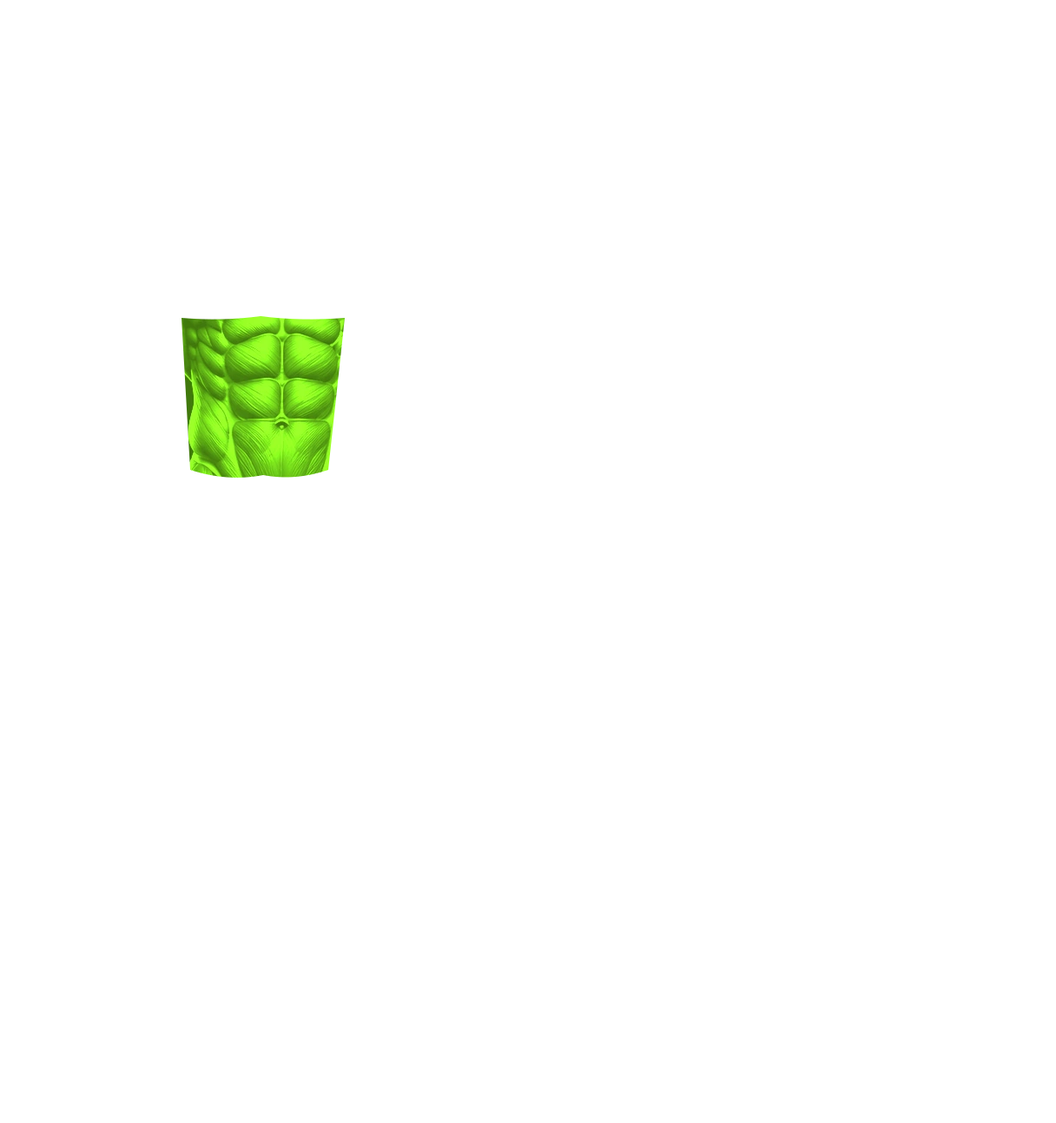
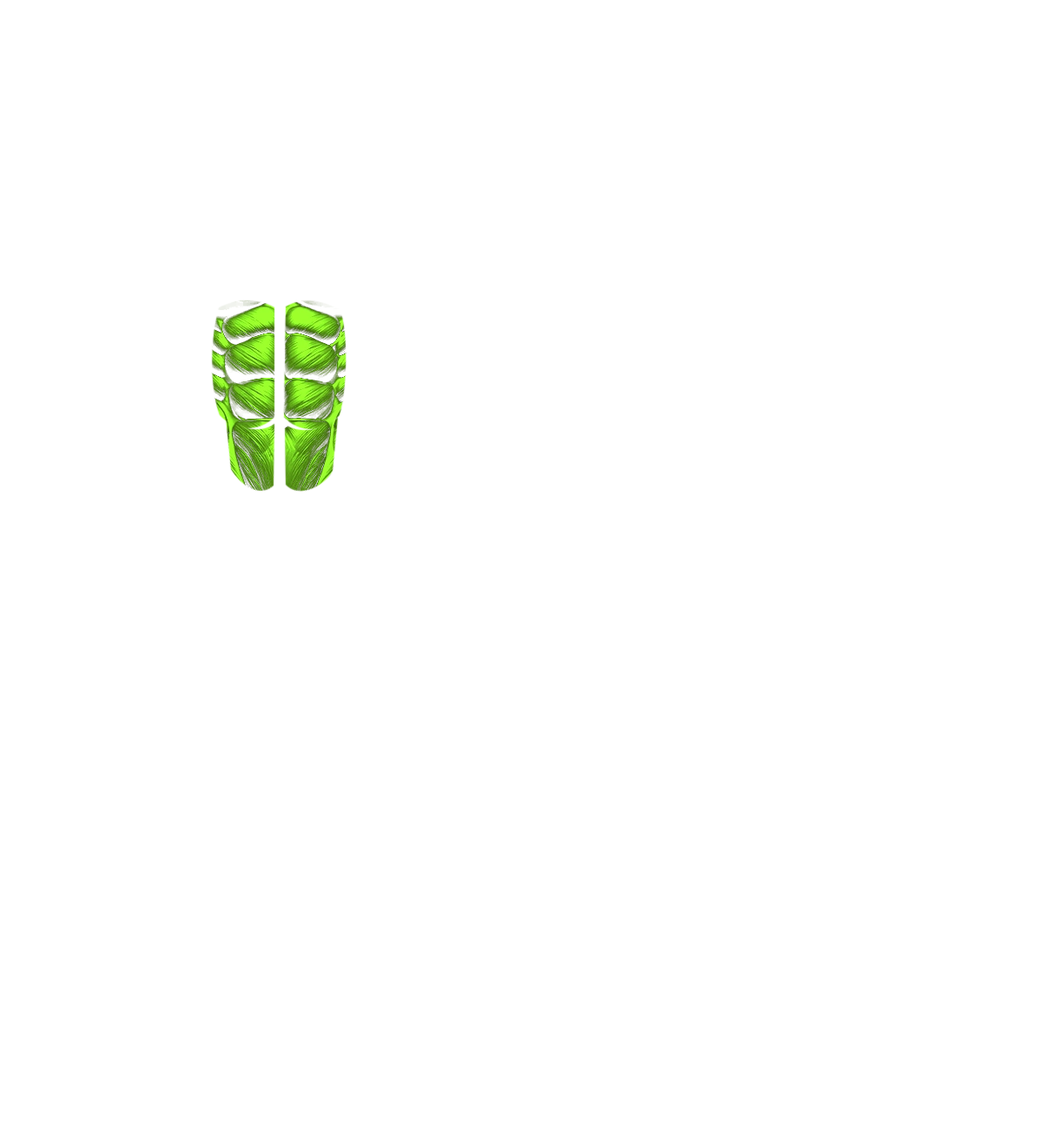
Add files via upload

Changed region(s): [[0.1562, 0.2475, 0.3438, 0.4331]]

diff --git a/js/performance.js b/js/performance.js
@@ -8,7 +8,7 @@ function coachLine(message){let style=state.settings.coachStyle;if(style==='quie
 function chooseEffort(v){if(!['easy','good','hard'].includes(v)||!state.draft)return;let e=state.draft.ex[index],lastSet=e.logged.at(-1);if(!lastSet)return;lastSet.effort=v;save();pulse();render()}
 function setCoachStyle(v){if(!['push','focus','quiet','savage'].includes(v))return;state.settings.coachStyle=v;save();render()}
 function setMotion(v){if(!['full','reduced'].includes(v))return;state.settings.motion=v;save();render()}
-function save(){state.updated=Date.now();try{localStorage.setItem(key,JSON.stringify(state))}catch(e){alert('Storage is full. Export a backup before continuing.');throw e}}function go(r){location.hash=r;if(route===r)render();if(r==='active')requestWakeLock();else releaseWakeLock()}function program(){return state.programs.find(p=>p.id===state.program)||state.programs[0]}function day(){return program().days[state.day]||program().days[0]}function valid(s){return s&&s.kg!==''&&s.kg!=null&&Number.isFinite(+s.kg)&&+s.kg>=0&&Number.isInteger(+s.reps)&&+s.reps>0}const volume=h=>(h.exercises||[]).reduce((a,e)=>a+(e.sets||[]).filter(valid).reduce((b,s)=>b+s.kg*s.reps,0),0);function history(name){return state.history.flatMap(h=>(h.exercises||[]).filter(e=>e.name===name).map(e=>({...e,date:h.date})))}function last(name){return history(name).at(-1)?.sets||[]}function week(){let d=new Date();d.setHours(0,0,0,0);d.setDate(d.getDate()-(d.getDay()+6)%7);return state.history.filter(h=>new Date(h.date)>=d)}function metric(n,v){return `<div class="panel"><small>${esc(n)}</small><strong class="metric">${esc(v)}</strong></div>`}function btn(t,fn,cls=''){return `<button class="${cls}" onclick="${fn}">${esc(t)}</button>`}function bar(n){return `<div class="bar"><i style="width:${Math.max(0,Math.min(100,n))}%"></i></div>`}const paths={home:'M3 10 12 3 21 10 V21 H15 V14 H9 V21 H3Z',train:'M3 8V16 M6 5V19 M18 5V19 M21 8V16 M6 12H18',progress:'M3 20V4 M3 20H22 M7 15L11 10 15 13 21 5',plan:'M4 5H20V21H4Z M4 10H20 M8 2V7 M16 2V7',fuel:'M7 3V12 M10 3V12 M7 8H10 M8.5 12V21 M17 3V21 M17 3C13 5 13 11 17 12',more:'M3 6H21 M3 12H21 M3 18H21'};const catalog=[["Bench Press", "Chest", "Barbell"], ["Incline Dumbbell Press", "Chest", "Dumbbells"], ["Cable Chest Fly", "Chest", "Cable"], ["Lat Pulldown", "Back", "Cable"], ["Seated Cable Row", "Back", "Cable"], ["Dumbbell Curl", "Arms", "Dumbbells"], ["Triceps Pushdown", "Arms", "Cable"], ["Shoulder Press", "Shoulders", "Dumbbells"], ["Leg Press", "Legs", "Machine"], ["Goblet Squat", "Legs", "Dumbbells"], ["Plank", "Core", "Bodyweight"], ["Walking Lunge", "Legs", "Bodyweight"], ["Hammer Curl", "Arms", "Dumbbells"], ["Lateral Raise", "Shoulders", "Dumbbells"], ["Chest Supported Row", "Back", "Dumbbells"], ["Overhead Triceps Extension", "Arms", "Dumbbells"], ["Reverse Pec Deck", "Shoulders", "Machine"], ["Cable Crunch", "Core", "Cable"], ["Seated Shoulder Press", "Shoulders", "Dumbbells"], ["Incline Chest Press", "Chest", "Machine"], ["Assisted Pull-up", "Back", "Machine"], ["Machine Chest Fly", "Chest", "Machine"], ["Cable Row", "Back", "Cable"], ["Straight Arm Pulldown", "Back", "Cable"], ["EZ Bar Curl", "Arms", "Barbell"], ["Rope Triceps Pushdown", "Arms", "Cable"], ["Incline Dumbbell Curl", "Arms", "Dumbbells"], ["Overhead Cable Extension", "Arms", "Cable"], ["Cable Lateral Raise", "Shoulders", "Cable"],["Dumbbell Bench Press", "Chest", "Dumbbells"],["Incline Barbell Press", "Chest", "Barbell"],["Decline Barbell Press", "Chest", "Barbell"],["Dumbbell Chest Fly", "Chest", "Dumbbells"],["Pec Deck Chest Fly", "Chest", "Machine"],["Weighted Dip", "Chest", "Bodyweight"],["Close Grip Bench Press", "Arms", "Barbell"],["Push-up", "Chest", "Bodyweight"],["Pull-up", "Back", "Bodyweight"],["Chin-up", "Back", "Bodyweight"],["Bent Over Barbell Row", "Back", "Barbell"],["One Arm Dumbbell Row", "Back", "Dumbbells"],["T Bar Row", "Back", "Barbell"],["Chest Supported Machine Row", "Back", "Machine"],["Wide Grip Lat Pulldown", "Back", "Cable"],["Close Grip Cable Row", "Back", "Cable"]];const muscle=n=>catalog.find(x=>x[0]===n)?.[1]||(/curl|triceps|extension/i.test(n)?'Arms':/row|pull/i.test(n)?'Back':/press|fly/i.test(n)&&!/shoulder|leg/i.test(n)?'Chest':/shoulder|raise|pec deck/i.test(n)?'Shoulders':/crunch|plank/i.test(n)?'Core':'Other');function img(n){let f=n.trim().toLowerCase().replace(/[^a-z0-9]+/g,'-');return catalog.some(x=>x[0].toLowerCase()===n.trim().toLowerCase())?`<img class="exercise-img" loading="lazy" src="exercise-images/${f}.webp" alt="3D-style exercise demonstration: ${esc(n)}" onerror="this.onerror=null;this.replaceWith(Object.assign(document.createElement('div'),{className:'exercise-image-error',textContent:'Illustration temporarily unavailable · ${esc(n)}'}))">`:'<div class="exercise-image-error">Custom exercise · illustration not yet available</div>'}function render(){route=location.hash.slice(1)||'home';if(route!=='active')releaseWakeLock();document.documentElement.dataset.motion=state.settings.motion;$('network').textContent=navigator.onLine?'● Online':'● Offline';$('nav').innerHTML=Object.entries(paths).map(([r,p])=>`<button type="button" aria-label="${r[0].toUpperCase()+r.slice(1)}" aria-current="${(route===r||r==='train'&&route==='active'||r==='plan'&&route==='calendar')?'page':'false'}" class="${(route===r||r==='train'&&route==='active'||r==='plan'&&route==='calendar')?'active':''}" onclick="go('${r}')"><span class="nav-glyph"><svg viewBox="0 0 24 24" aria-hidden="true"><path d="${p}"/></svg></span><span class="nav-name">${r[0].toUpperCase()+r.slice(1)}</span></button>`).join('');let views={home,train,active,progress,calendar,plan:calendar,fuel,more,library,settings,builder,body,summary,generator};$('screen').innerHTML=(views[route]||home)();tick();updateWakeStatus()}function home(){let w=week(),n=w.length,g=state.settings.goal,total=state.history.length,vol=Math.round(w.reduce((a,h)=>a+volume(h),0));return `<div class="v5-command"><div class="preview-banner">V6.7 TITANIUM X · 3D MUSCLE MAP</div><div class="v5-eyebrow">V6 TITANIUM X / COMMAND MODE <span class="v5-live">● SYSTEM READY</span></div><div class="v5-hero"><div class="v5-hero-content"><small>YOUR PERSONAL TRAINING SYSTEM</small><h1>${esc(state.draft?'WELCOME BACK':'READY TO EVOLVE?')}</h1><p>${esc(state.draft?.name||day().name)}</p><div class="v5-hero-action">${btn(state.draft?'▶ RESUME TRAINING':'⚡ START TRAINING','start()','primary')}</div></div></div><div class="v5-instruments"><div class="v5-dial" style="--percent:${Math.min(100,Math.round(n/Math.max(1,g)*100))}%"><strong>${n}/${g}</strong><small>WEEKLY GOAL</small></div><div class="v5-dial" style="--percent:${Math.min(100,total*10)}%"><strong>${total}</strong><small>SESSIONS</small></div><div class="v5-dial" style="--percent:${Math.min(100,vol/100)}%"><strong>${vol>=1000?(vol/1000).toFixed(1)+'t':vol+'kg'}</strong><small>WEEKLY VOLUME</small></div></div><section class="v5-coach"><div class="v5-coach-head"><span class="v5-wolf">◈</span><div><small>YOUR TRAINER</small><h2>KILLA COACH</h2></div><span class="v5-live">${esc(state.settings.coachStyle.toUpperCase())}</span></div><p>${esc(total?`Last session: ${state.history.at(-1).name}. ${n} of ${g} weekly sessions completed. Ready for the next step?`:'Your first session starts here. Train with control, log your sets and build a real performance history.')}</p><div class="v5-actions">${btn('TRAINING PROGRAM',"go('train')")}${btn('PROGRESS HQ',"go('progress')")}</div></section><div class="v5-mode-row"><button onclick="go('builder')"><b>⚙ FORGE</b><small>BUILD YOUR PROGRAM</small></button><button onclick="go('calendar')"><b>▦ SHIFT</b><small>SITE & HOME</small></button><button onclick="go('library')"><b>◉ LIBRARY</b><small>3D EXERCISES</small></button></div></div>`}
+function save(){state.updated=Date.now();try{localStorage.setItem(key,JSON.stringify(state))}catch(e){alert('Storage is full. Export a backup before continuing.');throw e}}function go(r){location.hash=r;if(route===r)render();if(r==='active')requestWakeLock();else releaseWakeLock()}function program(){return state.programs.find(p=>p.id===state.program)||state.programs[0]}function day(){return program().days[state.day]||program().days[0]}function valid(s){return s&&s.kg!==''&&s.kg!=null&&Number.isFinite(+s.kg)&&+s.kg>=0&&Number.isInteger(+s.reps)&&+s.reps>0}const volume=h=>(h.exercises||[]).reduce((a,e)=>a+(e.sets||[]).filter(valid).reduce((b,s)=>b+s.kg*s.reps,0),0);function history(name){return state.history.flatMap(h=>(h.exercises||[]).filter(e=>e.name===name).map(e=>({...e,date:h.date})))}function last(name){return history(name).at(-1)?.sets||[]}function week(){let d=new Date();d.setHours(0,0,0,0);d.setDate(d.getDate()-(d.getDay()+6)%7);return state.history.filter(h=>new Date(h.date)>=d)}function metric(n,v){return `<div class="panel"><small>${esc(n)}</small><strong class="metric">${esc(v)}</strong></div>`}function btn(t,fn,cls=''){return `<button class="${cls}" onclick="${fn}">${esc(t)}</button>`}function bar(n){return `<div class="bar"><i style="width:${Math.max(0,Math.min(100,n))}%"></i></div>`}const paths={home:'M3 10 12 3 21 10 V21 H15 V14 H9 V21 H3Z',train:'M3 8V16 M6 5V19 M18 5V19 M21 8V16 M6 12H18',progress:'M3 20V4 M3 20H22 M7 15L11 10 15 13 21 5',plan:'M4 5H20V21H4Z M4 10H20 M8 2V7 M16 2V7',fuel:'M7 3V12 M10 3V12 M7 8H10 M8.5 12V21 M17 3V21 M17 3C13 5 13 11 17 12',more:'M3 6H21 M3 12H21 M3 18H21'};const catalog=[["Bench Press", "Chest", "Barbell"], ["Incline Dumbbell Press", "Chest", "Dumbbells"], ["Cable Chest Fly", "Chest", "Cable"], ["Lat Pulldown", "Back", "Cable"], ["Seated Cable Row", "Back", "Cable"], ["Dumbbell Curl", "Arms", "Dumbbells"], ["Triceps Pushdown", "Arms", "Cable"], ["Shoulder Press", "Shoulders", "Dumbbells"], ["Leg Press", "Legs", "Machine"], ["Goblet Squat", "Legs", "Dumbbells"], ["Plank", "Core", "Bodyweight"], ["Walking Lunge", "Legs", "Bodyweight"], ["Hammer Curl", "Arms", "Dumbbells"], ["Lateral Raise", "Shoulders", "Dumbbells"], ["Chest Supported Row", "Back", "Dumbbells"], ["Overhead Triceps Extension", "Arms", "Dumbbells"], ["Reverse Pec Deck", "Shoulders", "Machine"], ["Cable Crunch", "Core", "Cable"], ["Seated Shoulder Press", "Shoulders", "Dumbbells"], ["Incline Chest Press", "Chest", "Machine"], ["Assisted Pull-up", "Back", "Machine"], ["Machine Chest Fly", "Chest", "Machine"], ["Cable Row", "Back", "Cable"], ["Straight Arm Pulldown", "Back", "Cable"], ["EZ Bar Curl", "Arms", "Barbell"], ["Rope Triceps Pushdown", "Arms", "Cable"], ["Incline Dumbbell Curl", "Arms", "Dumbbells"], ["Overhead Cable Extension", "Arms", "Cable"], ["Cable Lateral Raise", "Shoulders", "Cable"],["Dumbbell Bench Press", "Chest", "Dumbbells"],["Incline Barbell Press", "Chest", "Barbell"],["Decline Barbell Press", "Chest", "Barbell"],["Dumbbell Chest Fly", "Chest", "Dumbbells"],["Pec Deck Chest Fly", "Chest", "Machine"],["Weighted Dip", "Chest", "Bodyweight"],["Close Grip Bench Press", "Arms", "Barbell"],["Push-up", "Chest", "Bodyweight"],["Pull-up", "Back", "Bodyweight"],["Chin-up", "Back", "Bodyweight"],["Bent Over Barbell Row", "Back", "Barbell"],["One Arm Dumbbell Row", "Back", "Dumbbells"],["T Bar Row", "Back", "Barbell"],["Chest Supported Machine Row", "Back", "Machine"],["Wide Grip Lat Pulldown", "Back", "Cable"],["Close Grip Cable Row", "Back", "Cable"]];const muscle=n=>catalog.find(x=>x[0]===n)?.[1]||(/curl|triceps|extension/i.test(n)?'Arms':/row|pull/i.test(n)?'Back':/press|fly/i.test(n)&&!/shoulder|leg/i.test(n)?'Chest':/shoulder|raise|pec deck/i.test(n)?'Shoulders':/crunch|plank/i.test(n)?'Core':'Other');function img(n){let f=n.trim().toLowerCase().replace(/[^a-z0-9]+/g,'-');return catalog.some(x=>x[0].toLowerCase()===n.trim().toLowerCase())?`<img class="exercise-img" loading="lazy" src="exercise-images/${f}.webp" alt="3D-style exercise demonstration: ${esc(n)}" onerror="this.onerror=null;this.replaceWith(Object.assign(document.createElement('div'),{className:'exercise-image-error',textContent:'Illustration temporarily unavailable · ${esc(n)}'}))">`:'<div class="exercise-image-error">Custom exercise · illustration not yet available</div>'}function render(){route=location.hash.slice(1)||'home';if(route!=='active')releaseWakeLock();document.documentElement.dataset.motion=state.settings.motion;$('network').textContent=navigator.onLine?'● Online':'● Offline';$('nav').innerHTML=Object.entries(paths).map(([r,p])=>`<button type="button" aria-label="${r[0].toUpperCase()+r.slice(1)}" aria-current="${(route===r||r==='train'&&route==='active'||r==='plan'&&route==='calendar')?'page':'false'}" class="${(route===r||r==='train'&&route==='active'||r==='plan'&&route==='calendar')?'active':''}" onclick="go('${r}')"><span class="nav-glyph"><svg viewBox="0 0 24 24" aria-hidden="true"><path d="${p}"/></svg></span><span class="nav-name">${r[0].toUpperCase()+r.slice(1)}</span></button>`).join('');let views={home,train,active,progress,calendar,plan:calendar,fuel,more,library,settings,builder,body,summary,generator};$('screen').innerHTML=(views[route]||home)();tick();updateWakeStatus()}function home(){let w=week(),n=w.length,g=state.settings.goal,total=state.history.length,vol=Math.round(w.reduce((a,h)=>a+volume(h),0));return `<div class="v5-command"><div class="preview-banner">V6.8 TITANIUM X · 3D MUSCLE MAP</div><div class="v5-eyebrow">V6 TITANIUM X / COMMAND MODE <span class="v5-live">● SYSTEM READY</span></div><div class="v5-hero"><div class="v5-hero-content"><small>YOUR PERSONAL TRAINING SYSTEM</small><h1>${esc(state.draft?'WELCOME BACK':'READY TO EVOLVE?')}</h1><p>${esc(state.draft?.name||day().name)}</p><div class="v5-hero-action">${btn(state.draft?'▶ RESUME TRAINING':'⚡ START TRAINING','start()','primary')}</div></div></div><div class="v5-instruments"><div class="v5-dial" style="--percent:${Math.min(100,Math.round(n/Math.max(1,g)*100))}%"><strong>${n}/${g}</strong><small>WEEKLY GOAL</small></div><div class="v5-dial" style="--percent:${Math.min(100,total*10)}%"><strong>${total}</strong><small>SESSIONS</small></div><div class="v5-dial" style="--percent:${Math.min(100,vol/100)}%"><strong>${vol>=1000?(vol/1000).toFixed(1)+'t':vol+'kg'}</strong><small>WEEKLY VOLUME</small></div></div><section class="v5-coach"><div class="v5-coach-head"><span class="v5-wolf">◈</span><div><small>YOUR TRAINER</small><h2>KILLA COACH</h2></div><span class="v5-live">${esc(state.settings.coachStyle.toUpperCase())}</span></div><p>${esc(total?`Last session: ${state.history.at(-1).name}. ${n} of ${g} weekly sessions completed. Ready for the next step?`:'Your first session starts here. Train with control, log your sets and build a real performance history.')}</p><div class="v5-actions">${btn('TRAINING PROGRAM',"go('train')")}${btn('PROGRESS HQ',"go('progress')")}</div></section><div class="v5-mode-row"><button onclick="go('builder')"><b>⚙ FORGE</b><small>BUILD YOUR PROGRAM</small></button><button onclick="go('calendar')"><b>▦ SHIFT</b><small>SITE & HOME</small></button><button onclick="go('library')"><b>◉ LIBRARY</b><small>3D EXERCISES</small></button></div></div>`}
 function train(){return `<h1>Train</h1>${state.draft?btn('Resume active workout','start()','primary'):''}<section><label>Training program<select onchange="selectProgram(this.value)">${state.programs.map(p=>`<option value="${esc(p.id)}" ${p.id===state.program?'selected':''}>${esc(p.name)}</option>`).join('')}</select></label>${program().days.map((d,i)=>`<div class="panel"><h2>${esc(d.name)}</h2><small>${d.ex.length} exercises</small><div class="row">${btn('Select',`selectDay(${i})`)}${state.day===i?btn('Start','start()','primary'):''}</div></div>`).join('')}${btn('Manage programs',"go('builder')")}${btn('Workout generator',"go('generator')")}</section><section><h2>Selected workout</h2>${day().ex.map(e=>`<p>${esc(e.name)} · ${e.sets} × ${esc(e.reps)}</p>`).join('')}</section>`}function selectProgram(id){state.program=id;state.day=0;save();render()}function selectDay(i){state.day=i;save();render()}function start(){unlock();requestWakeLock();if(!state.draft){const d=day();if(!d.ex.length)return alert('Add exercises first');let legacy=state.program==='original'?state.legacyDraft[state.day]:null;state.draft={id:uid(),name:d.name,program:state.program,day:state.day,started:Date.now(),ex:d.ex.map((e,i)=>({...clone(e),logged:Object.values(legacy?.[i]?.sets||{}).filter(valid)}))};if(state.program==='original')delete state.legacyDraft[state.day];index=0;save()}go('active')}/* V6.4 Smart Load and Coach. Old kg records are always treated as recorded total; no migration rewrite. */
 const LOAD_TYPES={barbell:'Barbell · plates per side',dumbbell:'Dumbbells · each hand',stack:'Cable / pin stack · displayed weight',dual:'Dual cable · each stack',plate:'Plate-loaded machine · each side',total:'Total external load',bodyweight:'Bodyweight / added load'};
 function loadType(name){let x=catalog.find(a=>a[0]===name),equip=x?.[2]||'';if(/EZ Bar|Bench Press$/.test(name)&&equip==='Barbell')return 'barbell';if(equip==='Barbell')return 'barbell';if(equip==='Dumbbells')return 'dumbbell';if(equip==='Cable')return /Cable Chest Fly/i.test(name)?'dual':'stack';if(equip==='Machine')return /Leg Press|Incline Chest Press/i.test(name)?'plate':'stack';if(equip==='Bodyweight')return 'bodyweight';return 'total'}
@@ -70,11 +70,11 @@ function anatomyMap(counts,detail={}){
 const max=Math.max(1,...Object.values(counts));
 const layers=[['Chest',counts.Chest||0],['Back',counts.Back||0],['Shoulders',counts.Shoulders||0],['Biceps',detail.Biceps||0],['Triceps',detail.Triceps||0],['Core',counts.Core||0],['Legs',counts.Legs||0]];
 const overlays=layers.filter(([name,sets])=>sets>0).map(([name,sets])=>{
-  const relative=Math.max(.82,Math.min(1,sets/max));
+  const relative=1; // Fully coloured trained muscles.
   return `<img class="anatomy-colour-layer" src="assets/muscle-${name.toLowerCase()}.webp" alt="" aria-hidden="true" style="opacity:${relative.toFixed(2)}">`;
 }).join('');
 const cards=['Chest','Back','Shoulders','Arms','Legs','Core'].map(m=>`<button class="anatomy-muscle ${group===m?'selected':''}" onclick="group='${m}';render()"><span class="muscle-dot ${counts[m]?'trained':''}"></span><span>${m}</span><strong>${counts[m]||0} sets</strong><i style="--level:${Math.round((counts[m]||0)/max*100)}%"></i></button>`).join('');
-return `<div class="anatomy-layout"><div class="anatomy-visual"><img class="anatomy-base" src="assets/anatomy-front-back.webp" alt="Silver front and back anatomy with vivid green muscle regions reflecting recorded sets" loading="lazy">${overlays}<div class="anatomy-map-hotspots" aria-label="Muscle map navigation"><button onclick="group='Chest';render()" aria-label="Chest, ${counts.Chest||0} sets" style="left:17%;top:22%;width:16%;height:12%"></button><button onclick="group='Arms';render()" aria-label="Arms, ${counts.Arms||0} sets" style="left:10%;top:25%;width:31%;height:15%"></button><button onclick="group='Back';render()" aria-label="Back, ${counts.Back||0} sets" style="left:68%;top:22%;width:17%;height:19%"></button><button onclick="group='Legs';render()" aria-label="Legs, ${counts.Legs||0} sets" style="left:19%;top:45%;width:65%;height:28%"></button></div><div class="anatomy-view-labels"><span>FRONT</span><span>BACK</span></div></div><div class="anatomy-muscles">${cards}</div></div><p class="anatomy-note">Green muscle tissue = recorded working sets in this period. Silver = no directly logged sets. Colour reflects training records, not muscle growth or recovery.${counts.Arms?` Arms: ${detail.Biceps||0} biceps sets · ${detail.Triceps||0} triceps sets.`:''}</p>`;
+return `<div class="anatomy-layout"><div class="anatomy-visual"><img class="anatomy-base" src="assets/anatomy-front-back.webp" alt="Silver front and back anatomy with vivid green muscle regions reflecting recorded sets" loading="lazy">${overlays}<div class="anatomy-map-hotspots" aria-label="Muscle map navigation"><button onclick="group='Chest';render()" aria-label="Chest, ${counts.Chest||0} sets" style="left:17%;top:22%;width:16%;height:12%"></button><button onclick="group='Arms';render()" aria-label="Arms, ${counts.Arms||0} sets" style="left:10%;top:25%;width:31%;height:15%"></button><button onclick="group='Back';render()" aria-label="Back, ${counts.Back||0} sets" style="left:68%;top:22%;width:17%;height:19%"></button><button onclick="group='Legs';render()" aria-label="Legs, ${counts.Legs||0} sets" style="left:19%;top:45%;width:65%;height:28%"></button></div><div class="anatomy-view-labels"><span>FRONT</span><span>BACK</span></div></div><div class="anatomy-muscles">${cards}</div></div><p class="anatomy-note">Vivid green muscle tissue = directly trained muscles in this period. Silver = no directly logged sets. Colour reflects training records, not muscle growth or recovery.${counts.Arms?` Arms: ${detail.Biceps||0} biceps sets · ${detail.Triceps||0} triceps sets.`:''}</p>`;
 }
 function progress(){let h=state.history.filter(x=>!period||Date.now()-new Date(x.date).getTime()<=period*86400000),counts={},detail={Biceps:0,Triceps:0};h.forEach(x=>(x.exercises||[]).forEach(e=>{let m=muscle(e.name),n=(e.sets||[]).filter(valid).length;counts[m]=(counts[m]||0)+n;if(m==='Arms'){if(/curl|chin.up/i.test(e.name))detail.Biceps+=n;else if(/triceps|extension|pushdown|close.grip/i.test(e.name))detail.Triceps+=n;else {detail.Biceps+=n;detail.Triceps+=n}}}));let names=[...new Set(state.history.flatMap(h=>(h.exercises||[]).map(e=>e.name)))],maxVol=Math.max(1,...h.map(volume));
 return `<div class="v6-progress"><div class="v6-progress-heading"><small>V6 TITANIUM X / PERFORMANCE HQ</small><h1>PROGRESS</h1><p>YOUR TRAINING PERFORMANCE</p></div><section><div class="v6-period">${[7,30,90,0].map(n=>btn(n?n+' days':'All time',`period=${n};render()`,period===n?'primary':'')).join('')}</div><div class="grid">${metric('Sessions',h.length)}${metric('Training volume',Math.round(h.reduce((a,x)=>a+volume(x),0)).toLocaleString()+' kg')}</div><h2>Session volume</h2>${h.length?`<div class="v6-chart" role="img" aria-label="Recorded session volumes: ${h.map(x=>Math.round(volume(x))+' kilograms').join(', ')}">${h.slice(-30).map(x=>`<div class="v6-chart-column" title="${esc(x.date.slice(0,10))}: ${Math.round(volume(x))} kg"><span>${Math.round(volume(x)).toLocaleString()}</span><i style="height:${Math.max(4,100*volume(x)/maxVol)}%"></i><small>${esc(x.date.slice(5,10))}</small></div>`).join('')}</div>`:'<p class="muted">Your session volume chart will appear after you complete a workout.</p>'}</section><section class="v6-anatomy-section"><h2>MUSCLE TRAINING MAP</h2><p class="muted">Your recorded muscle-group workload, visualised on a realistic anatomical reference.</p>${anatomyMap(counts,detail)}${group?`<div class="v6-muscle-detail"><h3>${esc(group)} · ${counts[group]||0} logged sets</h3>${catalog.filter(x=>x[1]===group).map(x=>`<p>${esc(x[0])}</p>`).join('')||'<p>No catalogue exercises for this group.</p>'}</div>`:''}</section><section><h2>Exercise history</h2><select id="historyName" onchange="showHistory(this.value)"><option value="">Select exercise</option>${names.map(n=>`<option>${esc(n)}</option>`).join('')}</select><div id="exerciseHistory"></div></section><section><h2>Sessions</h2>${h.slice().reverse().map(x=>`<p>${esc(x.name)} · ${esc(x.date.slice(0,10))} · ${volume(x)} kg</p>`).join('')||'<p class="muted">No sessions in this period.</p>'}</section></div>`}

diff --git a/css/performance.css b/css/performance.css
@@ -150,9 +150,12 @@
 /* V6.6 Titanium X CGI Exercise Vault */
 .vault-page{max-width:950px;margin:auto;padding-bottom:28px}.vault-heading{padding:18px 3px 12px}.vault-heading small,.vault-detail-top small{color:#b6f432;letter-spacing:.14em;font-size:11px;font-weight:900}.vault-heading h1{font-size:clamp(25px,6vw,38px);font-style:italic;letter-spacing:.035em;margin:7px 0;color:#f0f4f1}.vault-heading p,.vault-detail-top p{color:#a9b7ac;margin:5px 0 12px}.vault-search{display:block;margin:0 0 12px;color:#b9c8bd;font-size:12px}.vault-search input{margin-top:6px;width:100%;border-radius:13px;background:#121a17;border:1px solid #455848;color:#fff;padding:13px}.vault-filters{display:flex;gap:8px;overflow-x:auto;padding:5px 0 15px;scrollbar-width:thin}.vault-filters button{flex:0 0 auto;padding:10px 13px;border:1px solid #536357;border-radius:10px;background:linear-gradient(#1a241f,#0b100e);color:#e7f0e8;font-size:12px;font-weight:800}.vault-filters button.selected{background:linear-gradient(#c8ff47,#79c300);color:#10170b;border-color:#b6f432;box-shadow:0 0 15px #9ce82170}.vault-grid{display:grid;grid-template-columns:repeat(2,minmax(0,1fr));gap:12px}.vault-tile{display:flex;flex-direction:column;text-align:left;padding:0 0 12px;border:1px solid #526451;border-radius:14px;overflow:hidden;background:linear-gradient(145deg,#202b23,#0b100e);color:#fff;min-width:0}.vault-tile .exercise-img{width:100%;aspect-ratio:1/1;object-fit:cover;display:block;border-radius:0;max-height:none;margin:0 0 10px}.vault-tile-title{font-weight:900;line-height:1.2;padding:0 10px;font-size:13px;min-height:31px}.vault-tile small{color:#afc1b1;padding:4px 10px}.vault-tile-link{color:#b6f432;font-size:10px;font-weight:900;padding:7px 10px 0;letter-spacing:.05em}.vault-tile:focus-visible,.vault-tile:hover{border-color:#b6f432;box-shadow:0 0 14px #a5ef3850}.vault-detail{max-width:610px;margin:auto}.vault-detail-top{display:flex;align-items:flex-start;justify-content:space-between;gap:8px}.vault-detail-top h2{margin:8px 0;font-size:clamp(20px,5vw,28px);color:#f6f9f7}.vault-detail-top>button{width:38px;height:38px;flex:0 0 38px;border-radius:50%;background:#18221a;color:white;border:1px solid #576954}.vault-tabs{display:grid;grid-template-columns:1fr 1fr;gap:5px;background:#0c110e;border:1px solid #52664e;border-radius:11px;padding:4px;margin:12px 0}.vault-tabs button{border:0;border-radius:8px;background:transparent;color:#d4e2d6;padding:12px 4px;font-weight:850;font-size:12px}.vault-tabs button.active{color:#10160b;background:linear-gradient(120deg,#d4ff65,#7dcb03);box-shadow:0 0 15px #b6f43266}.vault-detail-image{background:#050806;border:1px solid #314232;border-radius:14px;overflow:hidden}.vault-detail-image .exercise-img{display:block;width:100%;max-height:420px;object-fit:contain;margin:auto}.vault-description{font-size:12px;color:#b6c7b9;line-height:1.6}.vault-use{width:100%;margin:12px 0 2px;min-height:52px}.vault-muscle-focus{display:grid;grid-template-columns:minmax(0,1.25fr) minmax(0,1fr);gap:12px;align-items:center}.vault-muscle-figure{border:1px solid #3d523e;background:#080d0a;border-radius:12px;overflow:hidden}.vault-muscle-figure img{display:block;width:100%;height:auto}.vault-muscle-key{display:grid;gap:12px}.vault-muscle-key>div{display:grid;grid-template-columns:14px 1fr;column-gap:8px;align-items:center;color:#eaf3eb}.vault-muscle-key i{width:12px;height:12px;border-radius:4px;grid-row:span 2}.vault-muscle-key i.primary{background:#b6f432;box-shadow:0 0 8px #b6f432}.vault-muscle-key i.secondary{background:#527b38}.vault-muscle-key strong{font-size:11px}.vault-muscle-key span{font-size:12px;color:#a9bbac}.vault-quick-action{margin:8px 0}.vault-quick-action button{border:1px solid #6a913d;color:#b6f432;background:#111a12;border-radius:10px;padding:9px 12px;font-size:11px;font-weight:900}@media(min-width:650px){.vault-grid{grid-template-columns:repeat(3,minmax(0,1fr))}}@media(max-width:380px){.vault-muscle-focus{grid-template-columns:1fr}.vault-muscle-figure img{max-height:260px;object-fit:contain}}
 
-/* V6.7 — tissue-coloured muscle overlays preserve the underlying anatomical shadows */
+/* V6.8 — tissue-coloured muscle overlays preserve the underlying anatomical shadows */
 .anatomy-visual>.anatomy-base{display:block;width:100%;height:auto}
 .anatomy-visual>.anatomy-colour-layer{position:absolute;inset:0;width:100%;height:100%;object-fit:fill;pointer-events:none;mix-blend-mode:normal;filter:drop-shadow(0 0 2px rgba(167,255,24,.18))}
 .anatomy-map-hotspots{position:absolute;inset:0;pointer-events:none}
 .anatomy-map-hotspots button{position:absolute;pointer-events:auto;border:0;background:transparent;cursor:pointer;border-radius:12px;opacity:0}
 .anatomy-map-hotspots button:focus-visible{opacity:1;outline:3px solid #c4ff35;background:#b6f43230}
+
+/* V6.8 anatomically traced colour regions */
+.anatomy-visual>.anatomy-colour-layer{mix-blend-mode:normal;filter:none;image-rendering:auto}

diff --git a/sw.js b/sw.js
@@ -1,1 +1,1 @@
-const CACHE='killa-fitness-v67-muscle-tissue';const CORE=['./','./index.html','./css/performance.css','./assets/anatomy-front-back.webp','./assets/muscle-chest.webp','./assets/muscle-back.webp','./assets/muscle-shoulders.webp','./assets/muscle-biceps.webp','./assets/muscle-triceps.webp','./assets/muscle-core.webp','./assets/muscle-legs.webp','./js/defaults.js','./js/performance.js','./manifest.webmanifest','./js/install.js','./icons/apple-touch-icon.png','./icons/icon-192.png','./icons/icon-512.png','./icons/icon-maskable-512.png','./brand-metallic.png','./barbell-header.png'];const OPTIONAL=['./hero-athlete.jpg','./icons/icon-192.png','./icons/icon-512.png',...["assisted-pull-up", "bench-press", "bent-over-barbell-row", "cable-chest-fly", "cable-crunch", "cable-lateral-raise", "cable-row", "chest-supported-machine-row", "chest-supported-row", "chin-up", "close-grip-bench-press", "close-grip-cable-row", "decline-barbell-press", "dumbbell-bench-press", "dumbbell-chest-fly", "dumbbell-curl", "ez-bar-curl", "goblet-squat", "hammer-curl", "incline-barbell-press", "incline-chest-press", "incline-dumbbell-curl", "incline-dumbbell-press", "lat-pulldown", "lateral-raise", "leg-press", "machine-chest-fly", "one-arm-dumbbell-row", "overhead-cable-extension", "overhead-triceps-extension", "pec-deck-chest-fly", "plank", "pull-up", "push-up", "reverse-pec-deck", "rope-triceps-pushdown", "seated-cable-row", "seated-shoulder-press", "shoulder-press", "straight-arm-pulldown", "t-bar-row", "triceps-pushdown", "walking-lunge", "weighted-dip", "wide-grip-lat-pulldown"].map(n=>'./exercise-images/'+n+'.webp')];self.addEventListener('install',e=>e.waitUntil((async()=>{let c=await caches.open(CACHE);await c.addAll(CORE);await Promise.allSettled(OPTIONAL.map(x=>c.add(x)))})()));self.addEventListener('activate',e=>e.waitUntil((async()=>{for(const k of await caches.keys())if(k.startsWith('killa-fitness-')&&k!==CACHE)await caches.delete(k);await self.clients.claim()})()));self.addEventListener('fetch',e=>{if(e.request.method!=='GET'||new URL(e.request.url).origin!==location.origin)return;e.respondWith((async()=>{try{let r=await fetch(e.request);if(r.ok){let c=await caches.open(CACHE);await c.put(e.request,r.clone())}return r}catch{let c=await caches.open(CACHE);return await c.match(e.request)||(e.request.mode==='navigate'?await c.match('./index.html'):Response.error())}})())});
+const CACHE='killa-fitness-v68-anatomy-rebuild';const CORE=['./','./index.html','./css/performance.css','./assets/anatomy-front-back.webp','./assets/muscle-chest.webp','./assets/muscle-back.webp','./assets/muscle-shoulders.webp','./assets/muscle-biceps.webp','./assets/muscle-triceps.webp','./assets/muscle-core.webp','./assets/muscle-legs.webp','./js/defaults.js','./js/performance.js','./manifest.webmanifest','./js/install.js','./icons/apple-touch-icon.png','./icons/icon-192.png','./icons/icon-512.png','./icons/icon-maskable-512.png','./brand-metallic.png','./barbell-header.png'];const OPTIONAL=['./hero-athlete.jpg','./icons/icon-192.png','./icons/icon-512.png',...["assisted-pull-up", "bench-press", "bent-over-barbell-row", "cable-chest-fly", "cable-crunch", "cable-lateral-raise", "cable-row", "chest-supported-machine-row", "chest-supported-row", "chin-up", "close-grip-bench-press", "close-grip-cable-row", "decline-barbell-press", "dumbbell-bench-press", "dumbbell-chest-fly", "dumbbell-curl", "ez-bar-curl", "goblet-squat", "hammer-curl", "incline-barbell-press", "incline-chest-press", "incline-dumbbell-curl", "incline-dumbbell-press", "lat-pulldown", "lateral-raise", "leg-press", "machine-chest-fly", "one-arm-dumbbell-row", "overhead-cable-extension", "overhead-triceps-extension", "pec-deck-chest-fly", "plank", "pull-up", "push-up", "reverse-pec-deck", "rope-triceps-pushdown", "seated-cable-row", "seated-shoulder-press", "shoulder-press", "straight-arm-pulldown", "t-bar-row", "triceps-pushdown", "walking-lunge", "weighted-dip", "wide-grip-lat-pulldown"].map(n=>'./exercise-images/'+n+'.webp')];self.addEventListener('install',e=>e.waitUntil((async()=>{let c=await caches.open(CACHE);await c.addAll(CORE);await Promise.allSettled(OPTIONAL.map(x=>c.add(x)))})()));self.addEventListener('activate',e=>e.waitUntil((async()=>{for(const k of await caches.keys())if(k.startsWith('killa-fitness-')&&k!==CACHE)await caches.delete(k);await self.clients.claim()})()));self.addEventListener('fetch',e=>{if(e.request.method!=='GET'||new URL(e.request.url).origin!==location.origin)return;e.respondWith((async()=>{try{let r=await fetch(e.request);if(r.ok){let c=await caches.open(CACHE);await c.put(e.request,r.clone())}return r}catch{let c=await caches.open(CACHE);return await c.match(e.request)||(e.request.mode==='navigate'?await c.match('./index.html'):Response.error())}})())});

diff --git a/index.html b/index.html
@@ -1,1 +1,1 @@
-<!doctype html><html lang="en"><head><meta charset="utf-8"><meta name="viewport" content="width=device-width,initial-scale=1,viewport-fit=cover"><meta name="theme-color" content="#0b0f12"><meta name="apple-mobile-web-app-capable" content="yes"><meta name="apple-mobile-web-app-status-bar-style" content="black-translucent"><meta name="apple-mobile-web-app-title" content="KILLA FITNESS"><link rel="apple-touch-icon" sizes="180x180" href="icons/apple-touch-icon.png"><meta name="mobile-web-app-capable" content="yes"><title>KILLA FITNESS V6.5 · TITANIUM X</title><link rel="manifest" href="manifest.webmanifest"><link rel="stylesheet" href="css/performance.css"></head><body><header class="brand-header"><a href="#home" aria-label="Home"><img src="barbell-header.png" width="188" height="55" alt="KILLA FITNESS"></a><div class="header-actions"><button type="button" id="installHelp" aria-label="Install KILLA FITNESS" title="Install KILLA FITNESS" hidden>Install</button><span id="network"></span></div></header><main id="screen"></main><aside id="timer" hidden><strong id="clock"></strong><button id="timerToggle">Pause</button><button id="timerStop">Dismiss</button></aside><nav id="nav"></nav><dialog id="modal"></dialog><script defer src="js/install.js"></script><script src="js/defaults.js"></script><script src="js/performance.js"></script></body></html>
+<!doctype html><html lang="en"><head><meta charset="utf-8"><meta name="viewport" content="width=device-width,initial-scale=1,viewport-fit=cover"><meta name="theme-color" content="#0b0f12"><meta name="apple-mobile-web-app-capable" content="yes"><meta name="apple-mobile-web-app-status-bar-style" content="black-translucent"><meta name="apple-mobile-web-app-title" content="KILLA FITNESS"><link rel="apple-touch-icon" sizes="180x180" href="icons/apple-touch-icon.png"><meta name="mobile-web-app-capable" content="yes"><title>KILLA FITNESS V6.8 · TITANIUM X / ANATOMICAL MAP</title><link rel="manifest" href="manifest.webmanifest"><link rel="stylesheet" href="css/performance.css"></head><body><header class="brand-header"><a href="#home" aria-label="Home"><img src="barbell-header.png" width="188" height="55" alt="KILLA FITNESS"></a><div class="header-actions"><button type="button" id="installHelp" aria-label="Install KILLA FITNESS" title="Install KILLA FITNESS" hidden>Install</button><span id="network"></span></div></header><main id="screen"></main><aside id="timer" hidden><strong id="clock"></strong><button id="timerToggle">Pause</button><button id="timerStop">Dismiss</button></aside><nav id="nav"></nav><dialog id="modal"></dialog><script defer src="js/install.js"></script><script src="js/defaults.js"></script><script src="js/performance.js"></script></body></html>

diff --git a/README.md b/README.md
@@ -21,3 +21,9 @@ Alarm works while browser permits audio execution; not guaranteed when locked/su
 
 ## v4.5 — Installation
 See INSTALL-ON-PHONE.txt. Install help appears in the header in normal browser mode. No data migration or reset.
+
+
+## V6.8 anatomy rebuild
+- Anatomically traced green tissue shapes, shaded from the original 3D artwork, replacing block-like colour masks.
+- Seven independently coloured muscle regions; workout history storage unchanged.
+- This is static rendered artwork with independently coloured layers, not a rotatable 3D model.
